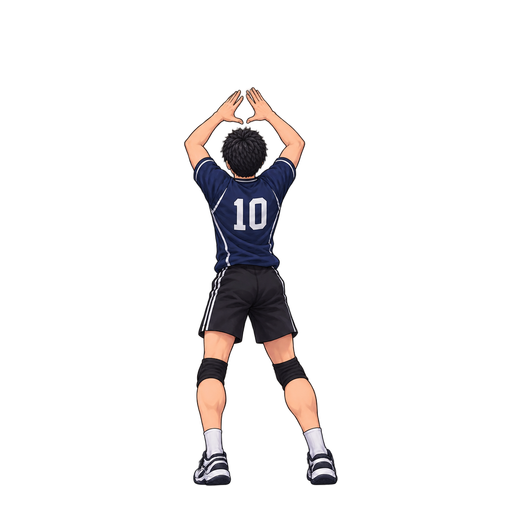
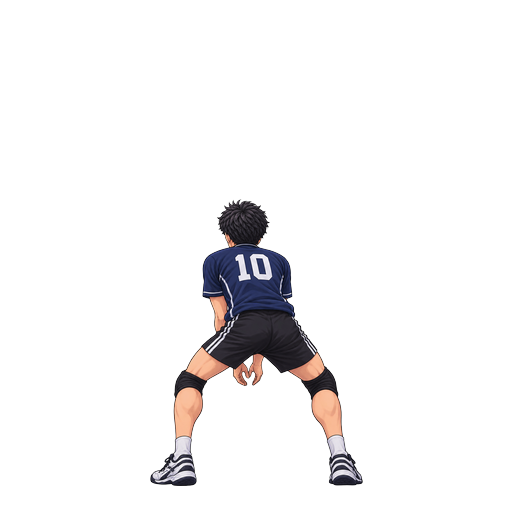
Pose siap dari belakang

Changed region(s): [[0.2812, 0.1562, 0.7188, 0.9688]]

diff --git a/HANDOFF.md b/HANDOFF.md
@@ -48,7 +48,7 @@ Mengganti gambar: timpa file dengan nama sama. Tidak perlu ubah kode.
 - Sub-tab Kompetisi (`setSubLiga`) dan Kelola Tim (`setSub`) adalah dua variabel terpisah; menu Beranda memilih sesuai tujuan.
 
 - Pose pemain: jersey lawan dicat ulang lewat canvas di `sprite.js` (piksel biru tua jadi merah). Butuh https/localhost; dari `file://` canvas terkunci dan lawan jatuh ke warna asli (biru).
-- `belakang-siap.png` masih sementara: salinan `belakang-umpan.png` (tangan di atas kepala). Timpa dengan pose siaga sungguhan dengan nama sama.
+- `belakang-siap.png` sudah pose siaga sungguhan (merunduk, tangan di depan paha), tinggi 287 px menyamai `belakang-receive.png`.
 - Garis serang digambar `.separuh::after` di `css/aset.css` (66.7% atas / 33.3% bawah). Jangan ubah tinggi baris pemain (grid fr) karena lapangan berperspektif jadi tidak muat.
 - `lantai.webp` dibuat dari bagian dalam gambar lapangan AI tanpa garisnya (garis AI salah: garis serang di 27,5% dan 72,3%, seharusnya 33,3% dan 66,7%).
 - Semua pemain memakai gambar yang sama (nomor 10, wajah sama). Pose depan servis/receive/umpan masih menggambar bola, jadi ada dua bola (milik gambar dan bola game). Minta ulang tanpa bola.
@@ -57,7 +57,7 @@ Mengganti gambar: timpa file dengan nama sama. Tidak perlu ubah kode.
 - `badanSvg` di `gambar.js` (pemain SVG lama) tidak dipakai lagi tapi dibiarkan.
 
 ## Belum dikerjakan
-Analitik lintas musim (sekarang hanya musim berjalan; riwayat musim lama belum disimpan), logo 7 tim lawan, potret pemain (kartu dan profil), pose siap tampak belakang, pose lawan khusus (jersey merah, nomor berbeda), profil pemain lebih kaya, promosi/degradasi, sponsor, gaji pemain, Supabase (online).
+Analitik lintas musim (sekarang hanya musim berjalan; riwayat musim lama belum disimpan), logo 7 tim lawan, potret pemain (kartu dan profil), pose lawan khusus (jersey merah, nomor berbeda), profil pemain lebih kaya, promosi/degradasi, sponsor, gaji pemain, Supabase (online).
 
 ## Memasang (Codespace)
 ```bash
